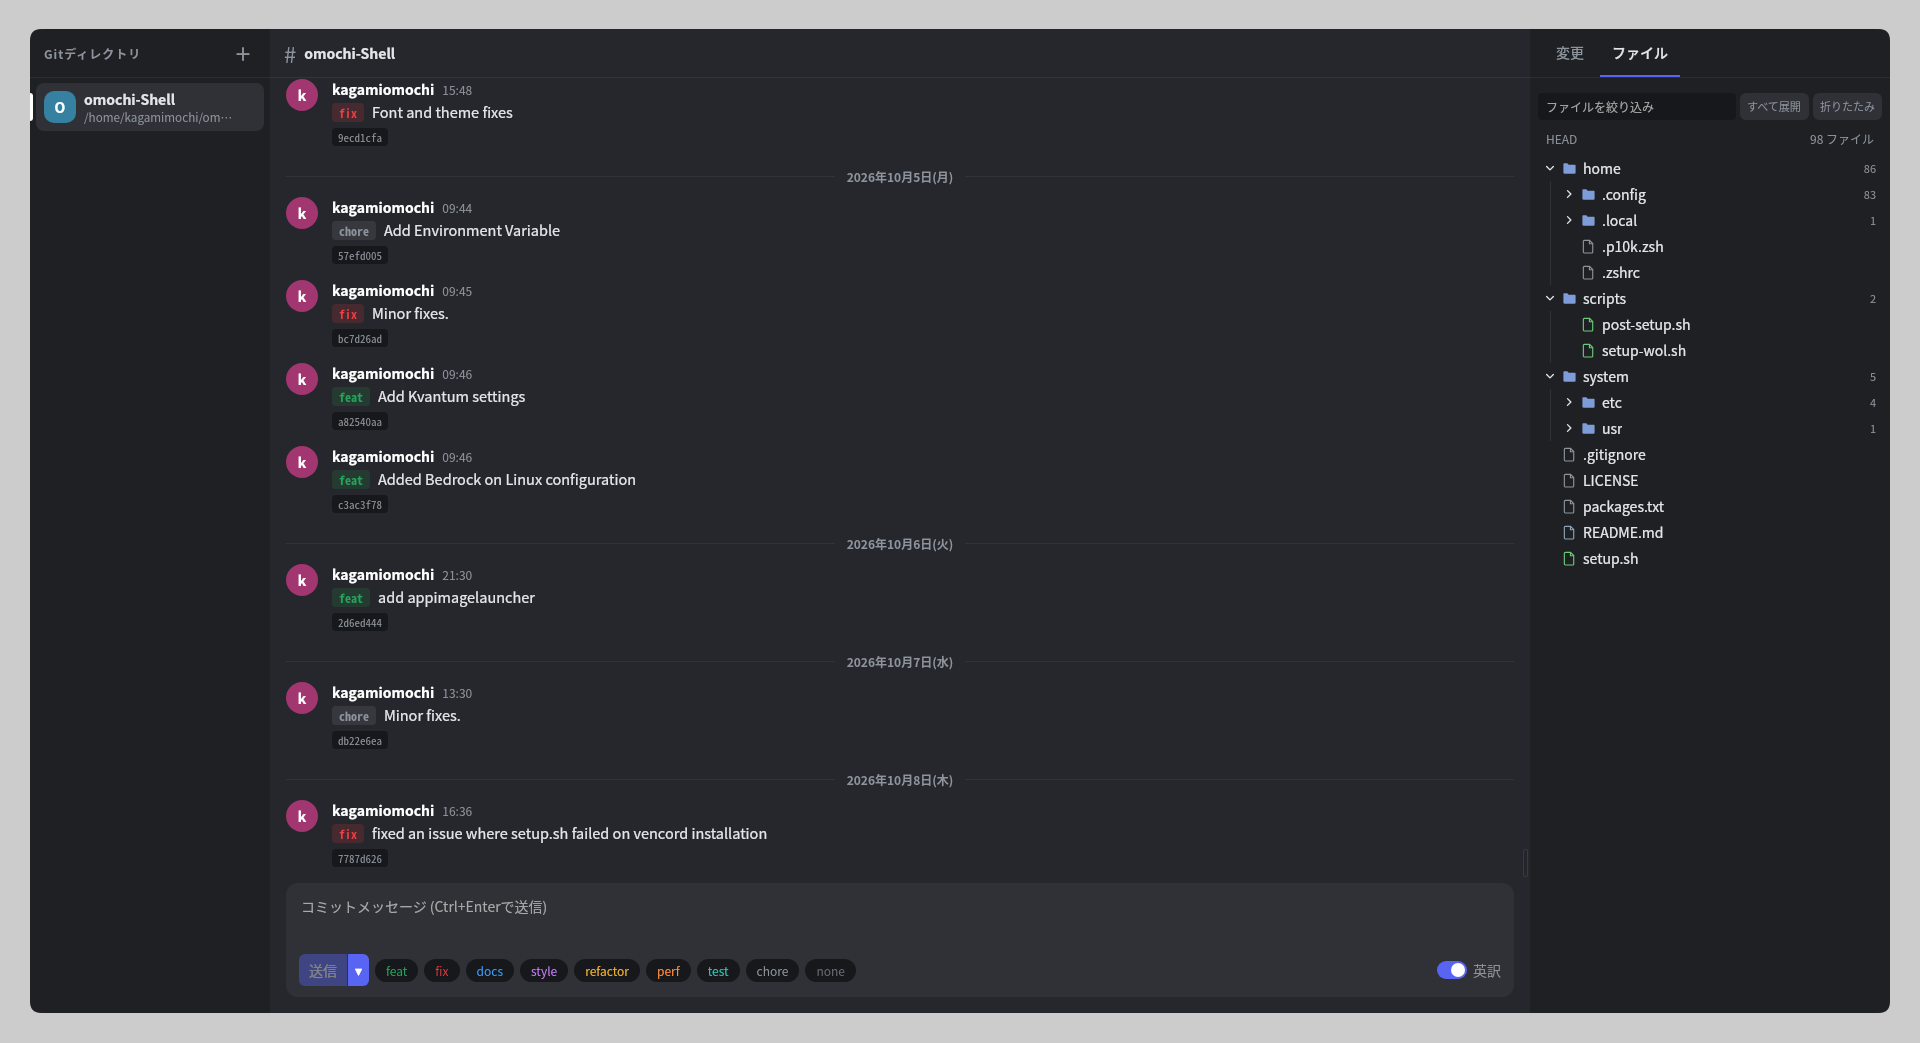
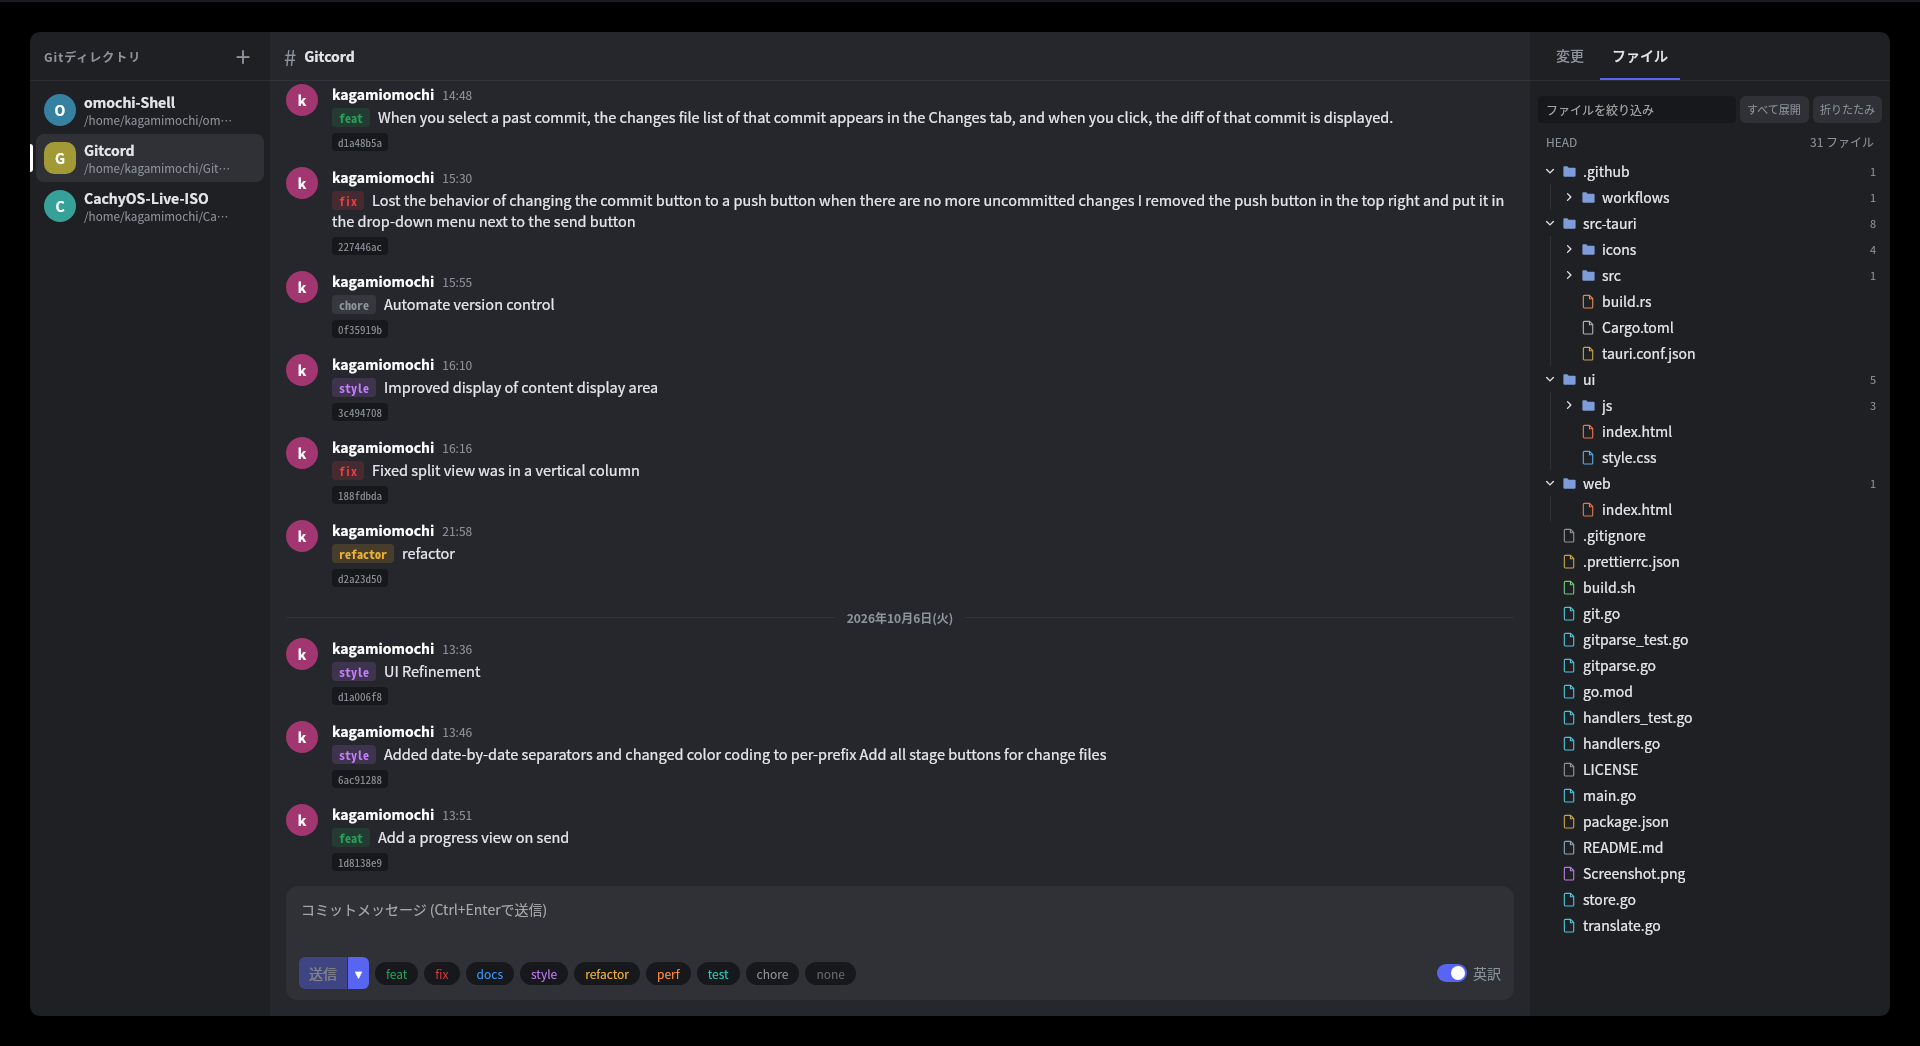
Add a screenshot

diff --git a/README.md b/README.md
@@ -4,6 +4,8 @@ DiscordライクなチャットUIで操作するGitクライアントです。
 
 Gitディレクトリを左のDM欄に並べ、コミット履歴をチャットのように読み、メッセージ送信欄からコミットできます。
 
+![Screenshot](Screenshot.png)
+
 ## 特徴
 
 - **チャット風の履歴表示**: 下が新しく、上に行くほど古いコミット。スクロールで最初のコミットまで遡れます
